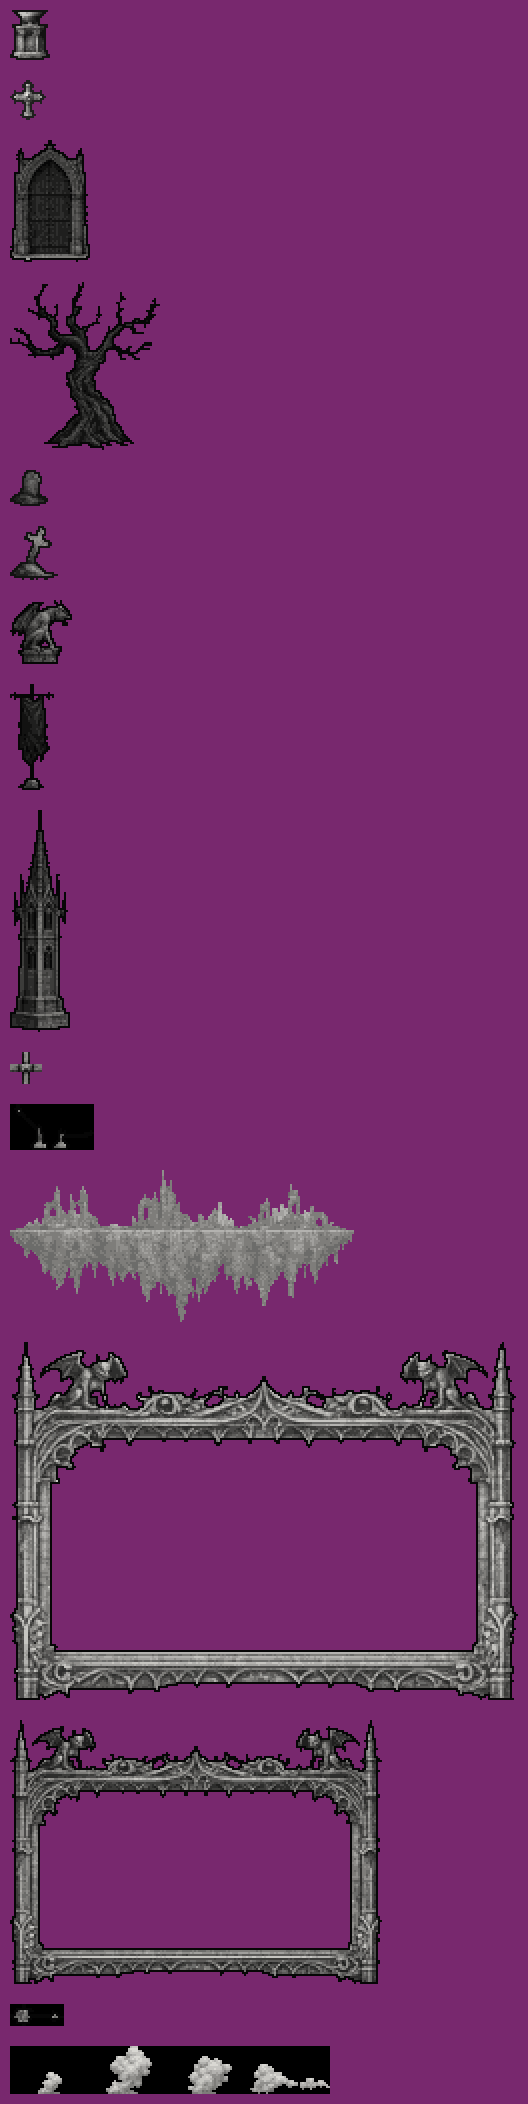
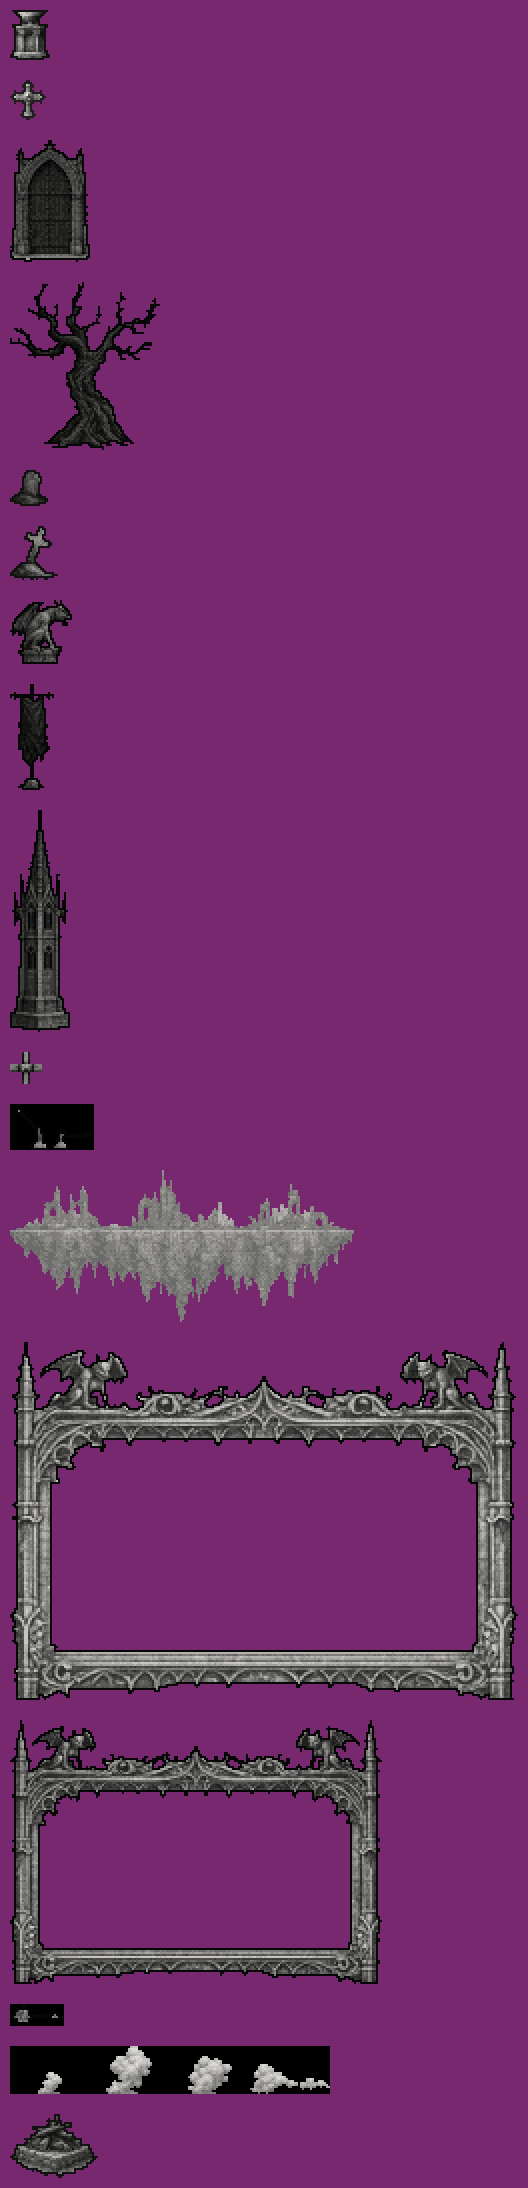
Salle d'essai jouable : le bûcher (#salle=bucher)
- Salles d'essai : niveaux/salles/<nom>.txt, jouées seules avec #salle=<nom> pour essayer une idée avant de la mettre
  dans un niveau ; « ; decor: <cle> » choisit le décor, la porte relance la salle, une salle absente le dit en clair.
- Bûcher (case w) : le feu (à bout portant ou à distance) l'embrase pour de bon ; sa fumée monte en colonne de cendre
  sur 3 cases, jusqu'à la première pierre (3 rangées sous le haut de la carte) : elle porte le dragon et lui rend son
  souffle. Image générée puis réduite par Pixel Artist ; flammes et fumée peintes (bouffées de poussière qui montent).
- La salle : une falaise de 38 rangées (sans bûcher, le dragon plafonne 62 px sous l'arête, prise de rebord comprise),
  puis un gouffre de 120 cases (sans le second bûcher, on bute 150 px sous l'autre rive). Prouvé au robot, sans et avec.
- Colonnes de cendre : seule leur part visible est dessinée (Terres, Corniches : 191 appels par image au lieu de plus).
- Skills : la règle « jamais de game design sur papier, une idée ne se montre que jouable » ; les salles d'essai.

Changed region(s): [[0.0, 0.2163, 1.0, 1.0], [0.0, 0.0, 0.303, 0.2163]]

diff --git a/src/js/niveau.js b/src/js/niveau.js
@@ -1,6 +1,6 @@
 import { J } from './etat.js';
 import { NIVEAUX, AN, G } from './config.js';
-import { CARTES } from './donnees.js';
+import { CARTES, SALLES } from './donnees.js';
 import { rand } from './outils.js';
 import { particule } from './partie.js';
 import { sfx } from './son.js';
@@ -55,6 +55,26 @@ export function tirerLevier(o) {
   sfx('touche');
   if (meilleure) { meilleure.ouverture = J.temps; sfx('boum', 0.1); sfx('chute', 0.15); }
 }
+// un bûcher (case w) : le feu l'embrase pour de bon, et sa fumée monte en colonne de cendre (elle porte vers le haut et
+// rend le souffle) sur toute la hauteur libre au-dessus de lui, sur 3 cases de large ; elle s'arrête 3 rangées sous le
+// haut de la carte, pour que le dragon qu'elle porte reste en entier à l'écran
+export const toucheBucher = (o, x, y) => Math.abs(o.x - x) < 22 && y > o.y - 32 && y < o.y + 2;
+export function allumerBucher(o) {
+  if (o.allume) return;
+  o.allume = true;
+  const niv = J.NIV;
+  for (let tx = o.tx - 1; tx <= o.tx + 1; tx++) {
+    if (tx < 0 || tx >= niv.l) continue;
+    let haut = o.ty;
+    for (let ty = o.ty; ty >= 3 && !bloque(niv.cases[ty * niv.l + tx]); ty--) {
+      if (niv.cases[ty * niv.l + tx] === VIDE) niv.cases[ty * niv.l + tx] = COURANT;
+      haut = ty;
+    }
+    niv.courants.push({ x: tx * TP, y0: haut * TP, y1: (o.ty + 1) * TP });
+  }
+  for (let i = 0; i < 16; i++) particule({ x: o.x + rand(-16, 16), y: o.y - rand(6, 22), vx: rand(-40, 40), vy: rand(-160, -60), vie: rand(0.4, 0.9), max: 0.9, t: 1 });
+  sfx('feu'); sfx('envol', 0.05);
+}
 export function majHerses() {                        // la herse bloque jusqu'à ce qu'elle soit remontée
   for (const g of J.NIV.herses) if (g.ouverture !== null && !g.levee && J.temps - g.ouverture > MONTEE_HERSE) {
     g.levee = true;
@@ -62,7 +82,7 @@ export function majHerses() {                        // la herse bloque jusqu'à
   }
 }
 export function lireNiveau(n) {
-  const lignes = CARTES[NIVEAUX[n].cle].split('\n').filter((l) => !l.startsWith(';')).map((l) => l.replace(/\s+$/, ''));
+  const lignes = (NIVEAUX[n].carte ? SALLES[NIVEAUX[n].carte] : CARTES[NIVEAUX[n].cle]).split('\n').filter((l) => !l.startsWith(';')).map((l) => l.replace(/\s+$/, ''));
   while (lignes.length && !lignes[lignes.length - 1]) lignes.pop();
   const h = lignes.length, l = Math.max(...lignes.map((x) => x.length));
   const niv = { niveau: n, l, h, cases: new Uint8Array(l * h), objets: [], courants: [], largeur: l * TP, hauteur: h * TP,
@@ -75,6 +95,7 @@ export function lireNiveau(n) {
     else if (ch === 'r') { niv.objets.push({ genre: 'relique', x, y }); niv.reliques++; }
     else if (ch === 'f') niv.objets.push({ genre: 'autel', x, y: sol });
     else if (ch === 'l') niv.objets.push({ genre: 'levier', x, y: sol, tire: false });
+    else if (ch === 'w') niv.objets.push({ genre: 'bucher', x, y: sol, tx, ty, allume: false });
     else if (DECOR.includes(ch)) niv.objets.push({ genre: 'decor', type: ch, x, y: sol });
     else if (ch === 'v') niv.objets.push({ genre: 'volee', x, y });   // une volée de corbeaux, lâchée quand on arrive
     else if (ch === 'P') niv.depart = [x, sol];

diff --git a/src/js/monde.js b/src/js/monde.js
@@ -2,7 +2,7 @@ import { J } from './etat.js';
 import { FEU, OS, PV_MAX } from './config.js';
 import { auSol, blesser } from './dragon.js';
 import { TYPES, apparitions, majEnnemi, noterRecord, tuer } from './ennemis.js';
-import { FRAGILE, TP, bloque, briser, caseA, majHerses, porteOuverte, tirerLevier, toucheLevier } from './niveau.js';
+import { FRAGILE, TP, allumerBucher, bloque, briser, caseA, majHerses, porteOuverte, tirerLevier, toucheBucher, toucheLevier } from './niveau.js';
 import { rand } from './outils.js';
 import { explosion, particule, popup } from './partie.js';
 import { sfx } from './son.js';
@@ -12,6 +12,11 @@ import { blesserVeilleur, majVeilleur } from './veilleur.js';
 export function majMonde(dt) {
   apparitions();
   majHerses();
+  // la fumée des bûchers allumés : elle montre la colonne qui porte (seulement près de l'écran)
+  for (const o of J.NIV.objets) {
+    if (o.genre !== 'bucher' || !o.allume || Math.abs(o.x - (J.cam + J.W / 2)) > J.W || Math.random() > dt * 11) continue;
+    particule({ x: o.x + rand(-12, 12), y: o.y - 22, vx: rand(-8, 8), vy: -rand(95, 125), vie: rand(4, 5.5), max: 5.5, t: Math.random() < 0.5 ? -1 : 1, genre: 'fumee' });
+  }
   for (const e of J.ennemis) majEnnemi(e, dt);
   J.ennemis = J.ennemis.filter((e) => {
     const loin = Math.abs(e.x - (J.cam + J.W / 2)) > J.W + 220 || Math.abs(e.y - (J.camY + J.H / 2)) > J.H + 160;
@@ -41,6 +46,7 @@ export function majMonde(dt) {
     }
     for (const o of J.orbes) if (b.vie > 0 && Math.hypot(o.x - b.x, o.y - b.y) < 10) { o.vie = 0; b.vie = 0; explosionSol(o.x, o.y); }
     for (const o of J.NIV.objets) if (b.vie > 0 && o.genre === 'levier' && !o.tire && toucheLevier(o, b.x, b.y)) { tirerLevier(o); b.vie = 0; explosionSol(b.x, b.y); }
+    for (const o of J.NIV.objets) if (b.vie > 0 && o.genre === 'bucher' && !o.allume && toucheBucher(o, b.x, b.y)) { allumerBucher(o); b.vie = 0; explosionSol(b.x, b.y); }
     // le feu touche tout le crâne et la mâchoire
     if (J.veilleur && b.vie > 0 && ((J.veilleur.x - b.x) / 34) ** 2 + ((J.veilleur.y + 8 - b.y) / 44) ** 2 < 1) { b.vie = 0; blesserVeilleur(J.veilleur, 1); explosionSol(b.x, b.y); }
   }
@@ -72,6 +78,7 @@ export function majMonde(dt) {
     p.vie -= dt; p.x += p.vx * dt; p.y += p.vy * dt;
     if (p.genre === 'plume' || p.genre === 'os' || p.genre === 'gravat') { p.vy += 200 * dt; p.vx *= 0.97; p.rot += dt * 7; }
     else if (p.genre === 'poussiere') { p.vx *= 0.9; p.vy = 0; }
+    else if (p.genre === 'fumee') p.vx = p.vx * 0.98 + Math.sin(J.temps * 1.7 + p.y * 0.02) * 6 * dt;   // elle monte à vitesse constante, en ondulant
     else { p.vx *= 0.93; p.vy *= 0.93; }
   }
   J.particules = J.particules.filter((p) => p.vie > 0);

diff --git a/src/js/partie.js b/src/js/partie.js
@@ -1,5 +1,5 @@
 import { J } from './etat.js';
-import { ACTE_DEPART, AN, DEPART, G, NIVEAUX, OS, PV_MAX, VEILLEUR } from './config.js';
+import { ACTE_DEPART, AN, DEPART, G, NIVEAUX, OS, PV_MAX, SALLE, VEILLEUR } from './config.js';
 import { BAS, HAUT, LARG, lireNiveau, porteOuverte, solSous } from './niveau.js';
 import { clamp, rand, romain } from './outils.js';
 import { sfx } from './son.js';
@@ -50,7 +50,7 @@ export function modeTitre() {
   J.P.mode = 'air'; J.P.x = 220; J.P.y = J.NIV.depart[1] - J.SOL + 108; cadrer(); J.camY = J.NIV.depart[1] - J.SOL;
 }
 // « ACTE II · NIVEAU 3 », au-dessus du nom du niveau
-export const titreNiveau = (n) => `ACTE ${romain(J.acte)} · NIVEAU ${n + 1}`;
+export const titreNiveau = (n) => NIVEAUX[n].titre || `ACTE ${romain(J.acte)} · NIVEAU ${n + 1}`;
 export function lancerNiveau(n, depuisLeNoir) {
   J.carte = { titre: titreNiveau(n), nom: NIVEAUX[n].nom, plaque: NIVEAUX[n].plaque, sous: NIVEAUX[n].sous, t: depuisLeNoir ? 0.45 : 0, fondu: true, bascule: depuisLeNoir, niveau: n };
   if (depuisLeNoir) entrerNiveau(n, false);
@@ -94,8 +94,8 @@ export function progression() {
   if (!J.NIV || (J.carte && J.carte.fondu) || J.P.pv <= 0) return;
   const s = J.NIV.sortie;
   // la porte : il suffit que le corps du dragon la touche, à pied ou en vol ; sans toutes les reliques, elle n'est pas là
-  if (s && J.niveau < NIVEAUX.length - 1 && Math.abs(J.P.x - s.x) < 15 + LARG && J.P.y + BAS > s.y - 50 && J.P.y - HAUT < s.y) {
-    if (porteOuverte()) { lancerNiveau(J.niveau + 1, false); J.P.inv = 3; }
+  if (s && (J.niveau < NIVEAUX.length - 1 || SALLE) && Math.abs(J.P.x - s.x) < 15 + LARG && J.P.y + BAS > s.y - 50 && J.P.y - HAUT < s.y) {
+    if (porteOuverte()) { lancerNiveau(SALLE ? J.niveau : J.niveau + 1, false); J.P.inv = 3; }
     else if (!(J.temps - (s.rappel ?? -9) < 4)) {           // rappel, au plus toutes les 4 secondes
       s.rappel = J.temps;
       const manque = J.NIV.reliques - J.NIV.prises;

diff --git a/src/js/terrain.js b/src/js/terrain.js
@@ -274,9 +274,12 @@ export function dessinerCourants() {           // colonnes de cendre qui montent
   ctx.fillStyle = '#c8c7c2';
   for (const c of J.NIV.courants) {
     if (c.x + TP < J.cam || c.x > J.cam + J.W || c.y1 < J.camY || c.y0 > J.camY + J.H) continue;
+    const bas = J.camY + J.H + 6, haut = Math.max(c.y0, J.camY - 8);   // seulement la part visible d'une colonne haute
     for (let i = 0; i < 3; i++) {
       const x = c.x + 3 + i * 5, dec = (J.temps * (70 + i * 14) + hash(c.x + i) * 30) % 22;
-      for (let y = c.y1 - dec; y > c.y0; y -= 22) { ctx.globalAlpha = 0.3 + 0.25 * Math.sin(y * 0.1 + i + J.temps); ctx.fillRect(x, Math.round(y), 1, 6); }
+      let y = c.y1 - dec;
+      if (y > bas) y -= Math.ceil((y - bas) / 22) * 22;
+      for (; y > haut; y -= 22) { ctx.globalAlpha = 0.3 + 0.25 * Math.sin(y * 0.1 + i + J.temps); ctx.fillRect(x, Math.round(y), 1, 6); }
     }
   }
   ctx.globalAlpha = 1;
@@ -293,6 +296,14 @@ export function dessinerObjets() {
         const f = Math.sin(J.temps * 12 + x) > 0, h = y - img.height + 4;
         ctx.drawImage(J.HALOS[f ? 1 : 0], x - (J.HALOS[0].width >> 1), h - 8 - (J.HALOS[0].height >> 1));
         flamme(x, h, x);
+      }
+    } else if (o.genre === 'bucher') {
+      const img = IMAGES_ART['objets/bucher'], x = Math.round(o.x), y = o.y;
+      au(img, x, y + 1);
+      if (o.allume) {                   // trois flammes sur le bois, et la lueur du feu
+        const f = Math.sin(J.temps * 12 + x) > 0, h = y - img.height + 12;
+        ctx.drawImage(J.HALOS[f ? 1 : 0], x - (J.HALOS[0].width >> 1), h - 8 - (J.HALOS[0].height >> 1));
+        flamme(x - 11, h + 4, x + 1); flamme(x + 11, h + 4, x + 2); flamme(x, h, x);
       }
     } else if (o.genre === 'levier') dessinerLevier(o);
     else if ((o.genre === 'relique' || o.genre === 'coeur') && !o.pris) {

diff --git a/src/js/dragon.js b/src/js/dragon.js
@@ -2,7 +2,7 @@ import { J } from './etat.js';
 import { AN, BOUCHE, BRUME, DESCENTE, FPS, G, OS, RUEE_COUT, SOUFFLE, S_BAS, V } from './config.js';
 import { DECOLLAGE, GESTES, RENVERSE, SOL_Y, foulee, posture } from './dragon-rendu.js';
 import { explosionSol } from './monde.js';
-import { BAS, CORNICHE, CORPS_SOL, COURANT, FRAGILE, HAUT, LARG, PICS, TP, appuiOuMarche, appuiSous, bloque, briser, caseA, deplacerSol, deplacerVol, solSous, tirerLevier, toucheCase, toucheLevier } from './niveau.js';
+import { BAS, CORNICHE, CORPS_SOL, COURANT, FRAGILE, HAUT, LARG, PICS, TP, allumerBucher, appuiOuMarche, appuiSous, bloque, briser, caseA, deplacerSol, deplacerVol, solSous, tirerLevier, toucheBucher, toucheCase, toucheLevier } from './niveau.js';
 import { approche, clamp, frac, mix, rand } from './outils.js';
 import { ressort } from '../../pixel_artist/pantin/pantin.js';
 import { particule, popup, poussiere } from './partie.js';
@@ -40,6 +40,8 @@ export function cracher() {
     const x = mix(J.P.x, bx, k), y = mix(J.P.y, by, k), tx = Math.floor(x / TP), ty = Math.floor(y / TP), t = caseA(tx, ty);
     const levier = J.NIV.objets.find((o) => o.genre === 'levier' && !o.tire && toucheLevier(o, x, y));
     if (levier) { tirerLevier(levier); explosionSol(x, y); return; }   // un levier tout près : la gueule l'atteint avant la boule
+    const bucher = J.NIV.objets.find((o) => o.genre === 'bucher' && !o.allume && toucheBucher(o, x, y));
+    if (bucher) { allumerBucher(bucher); explosionSol(x, y); return; }
     if (!bloque(t)) continue;
     if (t === FRAGILE) briser(tx, ty);
     explosionSol(x - J.P.face * 4, y);

diff --git a/src/js/config.js b/src/js/config.js
@@ -1,4 +1,4 @@
-import { PIXEL } from './donnees.js';
+import { PIXEL, SALLES } from './donnees.js';
 import { clamp } from './outils.js';
 
 // ================= Constantes =================
@@ -30,6 +30,15 @@ export const NIVEAUX = [
     obscurite: { debut: 24, plein: 32, max: 0.85 } },            // sous la brume, les fondations du château, dans la pénombre
   { cle: 'cryptes', nom: 'LES CRYPTES', sous: 'EN BAS, QUELQUE CHOSE VEILLE ENCORE.', plaque: 'inscriptions/cryptes' },
 ];
+// #salle=<nom> : une salle d'essai jouée seule (niveaux/salles/<nom>.txt), pour essayer une idée de jeu avant de la
+// mettre dans un niveau. Une ligne « ; decor: <cle> » choisit le décor d'un niveau (terres par défaut) ; la porte relance la salle.
+export const SALLE = (/salle=([\w-]+)/.exec(location.hash) || [])[1] || null;
+if (SALLE) {
+  const texte = SALLES[SALLE], decor = ((texte && /^;\s*decor\s*:\s*(\w+)/m.exec(texte)) || [])[1] || 'terres';
+  const base = NIVEAUX.find((n) => n.cle === decor) || NIVEAUX[0];
+  NIVEAUX.splice(0, NIVEAUX.length, { cle: base.cle, plaque: base.plaque, carte: texte ? SALLE : null, titre: "SALLE D'ESSAI",
+    nom: "SALLE D'ESSAI", sous: texte ? SALLE.toUpperCase().replace(/-/g, ' ') : `SALLE INTROUVABLE : NIVEAUX/SALLES/${SALLE.toUpperCase()}.TXT` });
+}
 // la difficulté ne monte pas d'un niveau à l'autre, seulement d'un acte à l'autre (a = 0 à l'acte I) :
 // plus d'ennemis, et plus résistants — sans qu'on les distingue des autres
 export const DIFFICULTE = {

diff --git a/src/js/rendu-monde.js b/src/js/rendu-monde.js
@@ -74,6 +74,11 @@ export function dessinerEffets() {
       const l = Math.cos(p.rot) > 0 ? 3 : 1;
       ctx.fillRect(x - l, y, l * 2, 1); ctx.fillRect(x, y - 1, 1, 1);
     } else if (p.genre === 'gravat') { ctx.fillStyle = k > 0.4 ? '#333333' : '#202020'; ctx.fillRect(x, y, Math.cos(p.rot) > 0 ? 2 : 1, 2); }
+    else if (p.genre === 'fumee') {           // la bouffée peinte de la poussière, qui grossit et pâlit en montant
+      ctx.globalAlpha = 0.25 + 0.55 * k;
+      imagePlanche('objets/poussiere', Math.min(3, Math.floor((1 - k) * 4)), x, y, p.t, 'centre');
+      ctx.globalAlpha = 1;
+    }
     else if (p.genre === 'ecto') { ctx.fillStyle = k > 0.5 ? BRUME : '#3a3a3a'; ctx.fillRect(x, y, 1, 1); }
     else if (p.genre === 'poussiere') imagePlanche('objets/poussiere', Math.min(3, Math.floor((1 - k) * 4)), x, y + 1, p.t, 'bas');
     else if (p.genre === 'eclair') disque(x, y, 9, '#ffffff');

diff --git a/src/js/obscurite.js b/src/js/obscurite.js
@@ -48,6 +48,7 @@ function lumieres() {
   }
   for (const o of J.NIV.objets) {
     if (o.genre === 'autel' && o.allume) L.push([o.x, o.y - 18, vacille(70, o.x)]);
+    else if (o.genre === 'bucher' && o.allume) L.push([o.x, o.y - 20, vacille(80, o.x)]);
     else if (o.genre === 'relique' && !o.pris) L.push([o.x, o.y, 14]);
   }
   if (J.veilleur) L.push([J.veilleur.x, J.veilleur.y, 60]);

diff --git a/skills/jeu-scenariste/SKILL.md b/skills/jeu-scenariste/SKILL.md
@@ -5,6 +5,8 @@ description: "Concevoir ce que le joueur FAIT dans un jeu 2D d'action et d'explo
 
 # Scénariste de jeu 2D : ce que le joueur fait
 
+> **Règle absolue (retour de l'utilisateur, 2026-09-22).** Ne jamais montrer à l'utilisateur un document de game design : ni fiche, ni page d'idées, ni énigmes décrites en prose. Il a jugé ça « un vomi de mots sans aucune prise en compte de la jouabilité ». Une idée ne lui parvient que **jouable** : une salle d'essai dans le vrai jeu, à l'échelle du vrai personnage, essayée d'abord (robot et vraie partie), une idée à la fois. Les notes de ce skill restent des notes internes.
+
 Les autres skills du harnais fabriquent le jeu : les images (jeu-assets-pixel-art), l'animation (jeu-animation-marionnette), les cartes (jeu-level-design), le moteur (jeu-moteur-2d-pwa). Celui-ci passe avant eux. Il décide ce que le joueur fait dans chaque niveau, pourquoi ce n'est pas la même chose qu'au niveau d'avant, et ce qu'il y trouve.
 
 Exemple travaillé : Dragon Rider, dossier `design/` du dépôt `github.com/FlorianZilliox/dragon-rider-2`.
@@ -38,7 +40,7 @@ Exemple travaillé : Dragon Rider, dossier `design/` du dépôt `github.com/Flor
    - elle ne crée aucun doublon dans la matrice.
 
    On peut confier chaque famille à un agent, puis faire juger à l'aveugle.
-6. **La fiche d'intention**, une par niveau (modèle dans `modeles.md`). Elle bloque la suite, comme dans le pipeline Sillage : **aucune carte n'est dessinée avant que l'utilisateur l'ait validée**. On lui montre les fiches et la matrice ensemble, sur une page lisible, pas dans le terminal.
+6. **La salle d'essai jouable**, une idée à la fois : c'est elle, et jamais une fiche, que l'utilisateur juge, en jouant. Dans Dragon Rider : `niveaux/salles/<nom>.txt`, jouée avec `#salle=<nom>` (exemple : `bucher`). Avant de la montrer, la jouer au robot (`outils/tests/scenario.mjs nav:salle=<nom>`) **sans** la trouvaille, pour prouver qu'on ne passe pas, puis **avec**, pour prouver qu'on passe, sans perdre de cœur par un piège injuste. Mesurer aussi les appels de dessin.
 7. **La matrice anti-répétition** (`design/README.md`). Deux niveaux ne partagent jamais l'idée, le geste mis en avant, la matière nouvelle ni la pression dominante.
 8. **Passer la main.** jeu-level-design dessine la carte d'après la fiche validée. Le moteur de mécanismes câble ce qu'elle demande, et le vérificateur de niveaux prouve le graphe des énigmes quand ces outils existeront. Si le jeu contredit la fiche, on met la fiche à jour.
 

diff --git a/README.md b/README.md
@@ -38,7 +38,7 @@ Le jeu compte plusieurs **niveaux**, chacun une carte dessinée à la main, à e
 - **Secrets** : murs fissurés à briser, cœurs cachés.
 - **Difficulté** : elle ne change pas d'un niveau à l'autre, seulement d'un acte à l'autre : à partir de l'acte II, plus d'ennemis, plus vifs, et une part d'entre eux plus résistants (un coup de plus), sans que rien ne les distingue.
 
-Raccourcis d'entraînement, à ajouter à la fin de l'adresse : `#calme` (sans ennemis), `#niveau=2`, `#niveau=3`…, `#veilleur`, `#acte=2` (les niveaux de l'acte II). `#essai` expose des aides de test (`window.__essai`) pour les robots de vérification.
+Raccourcis d'entraînement, à ajouter à la fin de l'adresse : `#salle=bucher` (une salle d'essai, voir plus bas), `#calme` (sans ennemis), `#niveau=2`, `#niveau=3`…, `#veilleur`, `#acte=2` (les niveaux de l'acte II). `#essai` expose des aides de test (`window.__essai`) pour les robots de vérification.
 
 ## Construire le jeu
 
@@ -104,6 +104,10 @@ Chaque niveau est un fichier texte, `niveaux/<cle>.txt`, dont la clé est décla
 | `\|` | tour peinte (bloque comme le roc) | `G` `g` `B` `I` | gargouille tournée vers la droite, vers la gauche ; étendard en lambeaux ; clocheton (décor) |
 
 Tours peintes : chaque groupe de cases `|` qui se touchent se dessine avec les pièces de `TERRAIN[…].pieces` pour sa largeur (dans les Tours : 4 cases, une tour à flèche ; 5, une terrasse à échauguettes ; 6, un donjon), sommet sur sa première rangée, fût répété en hauteur, pied de brume en bas. Des `^` posés sur une tour sont sa flèche : c'est la pointe peinte qui les montre, et ils blessent. Les corniches `=` se dessinent avec la galerie du niveau (`TERRAIN[…].galerie`). Une largeur sans pièces se dessine en roc.
+
+Bûcher (`w`) : le feu l'embrase pour de bon, et sa fumée monte en colonne de cendre (elle porte le dragon et lui rend le souffle) sur 3 cases de large, jusqu'à la première pierre.
+
+Salles d'essai : `niveaux/salles/<nom>.txt`, jouées seules avec `#salle=<nom>`, pour essayer une idée de jeu avant de la mettre dans un niveau. Une ligne `; decor: <cle>` choisit le décor ; la porte relance la salle.
 
 Herses et leviers (raccourcis à la Castlevania) : `H` est une case de herse, qui bloque tant qu'elle est fermée ; `l` est un levier. Un tir de feu ou une ruée l'actionne, et il lève d'un bloc la herse la plus proche (le groupe de cases `H` qui se touchent).
 

diff --git a/skills/jeu-moteur-2d-pwa/SKILL.md b/skills/jeu-moteur-2d-pwa/SKILL.md
@@ -16,6 +16,7 @@ Architecture de Dragon Rider (`github.com/FlorianZilliox/dragon-rider-2`), à re
 - **Commandes** : `npm run build`, `npm run dev` (serveur local qui reconstruit), `npm test`.
 - **Des garde-fous visibles** : une carte ou un décor manquant affiche un message en clair dans le jeu, jamais un écran noir. Une erreur d'assemblage indique le fichier et la ligne.
 - **Des aides de test** exposées sous `#essai` (`window.__essai`) : poser le personnage, ouvrir les portes, déclencher un coup, lire la posture.
+- **Des salles d'essai** (`niveaux/salles/<nom>.txt`, `#salle=<nom>`) : une idée de jeu jouée seule, sans toucher aux niveaux. L'assemblage les injecte à part (`SALLES`), et la porte relance la salle.
 
 ## PWA qui se met vraiment à jour
 
@@ -43,6 +44,7 @@ Sur mobile, ce sont les appels de dessin par image qui coûtent, pas les pixels.
 - le terrain est peint **une fois par niveau**, en bandes de 256 px, et chaque image n'en recopie que 2 ou 3. Une bande n'est repeinte que si un mur s'effondre ;
 - les formes faites de centaines de petits rectangles (pattes, ombre tramée) passent par un **pinceau hors écran** (tampon de pixels puis `putImageData`), soit un seul appel de dessin ;
 - les petits sprites répétés (cœurs, ovales) sont préparés **une fois en image** ;
+- ne dessiner que la part visible d'un effet haut : une colonne de cendre de 40 rangées tracée en entier coûtait 280 appels par image ;
 - pour le son, une seule sortie maîtresse, et chaque nœud est débranché à la fin de son son (Safari les accumulait) ;
 - pas d'allocations par image dans la boucle : on vide les ensembles, on ne les recrée pas.
 

diff --git a/skills/README.md b/skills/README.md
@@ -31,6 +31,7 @@ Les étapes 3 à 5 avancent en parallèle une fois les fiches validées. On ne d
 |---|---|---|---|
 | Pixel Artist | `pixel_artist/` (`generer.py`, `pixeliser.py`, `pixel_artist.py`) | génère d'après une référence, réduit en pixel art, découpe un personnage en os | en service |
 | Pantin | `pixel_artist/pantin/` | anime une marionnette découpée : os, ressorts, cinématique inverse | en service |
+| Salles d'essai | `niveaux/salles/`, `#salle=<nom>` (Dragon Rider) | une idée de jeu jouable seule, prouvée au robot avant d'être montrée | en service (bûcher) |
 | Rouages | à venir | moteur générique de mécanismes : déclencheur → effet, liens nommés dans les cartes | étape 2 du chantier « ce que le joueur fait » |
 | Arpenteur | à venir | lit carte, mécanismes et grammaire ; prouve qu'un niveau se termine, trace le graphe des énigmes, et une table à dessin | étape 3 |
 
